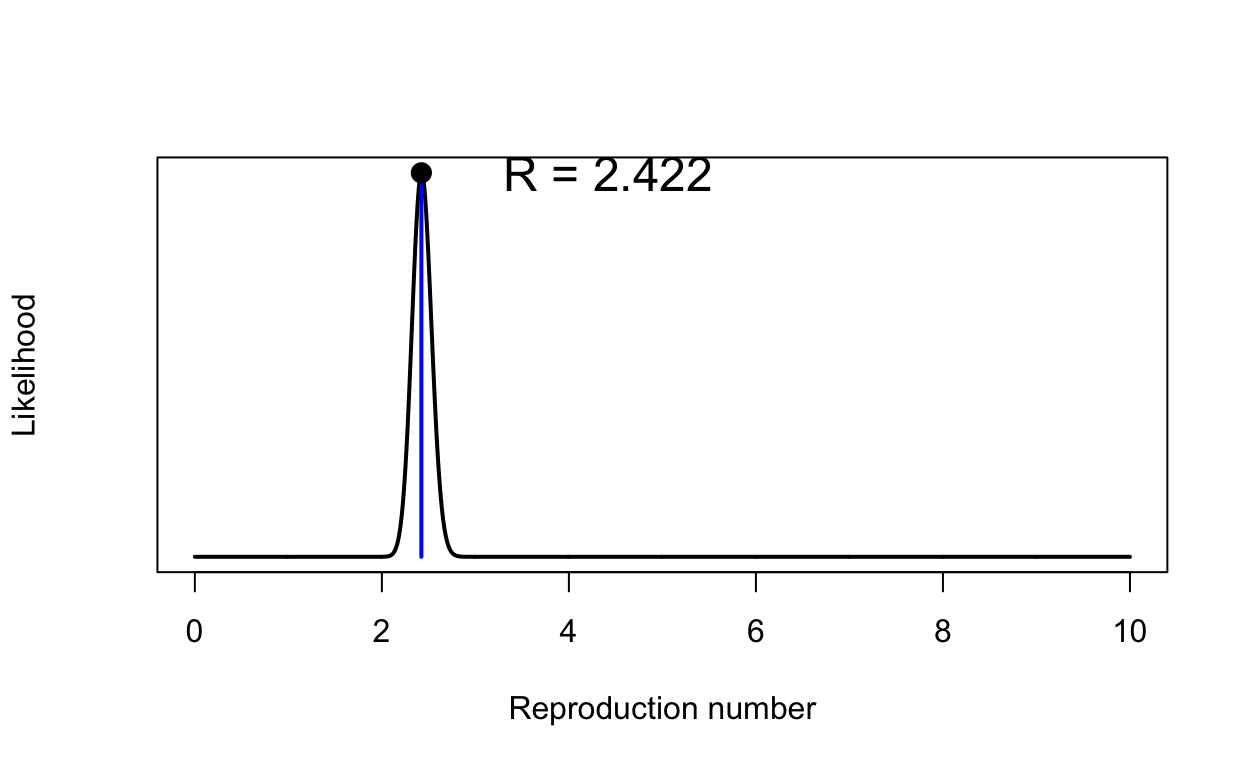
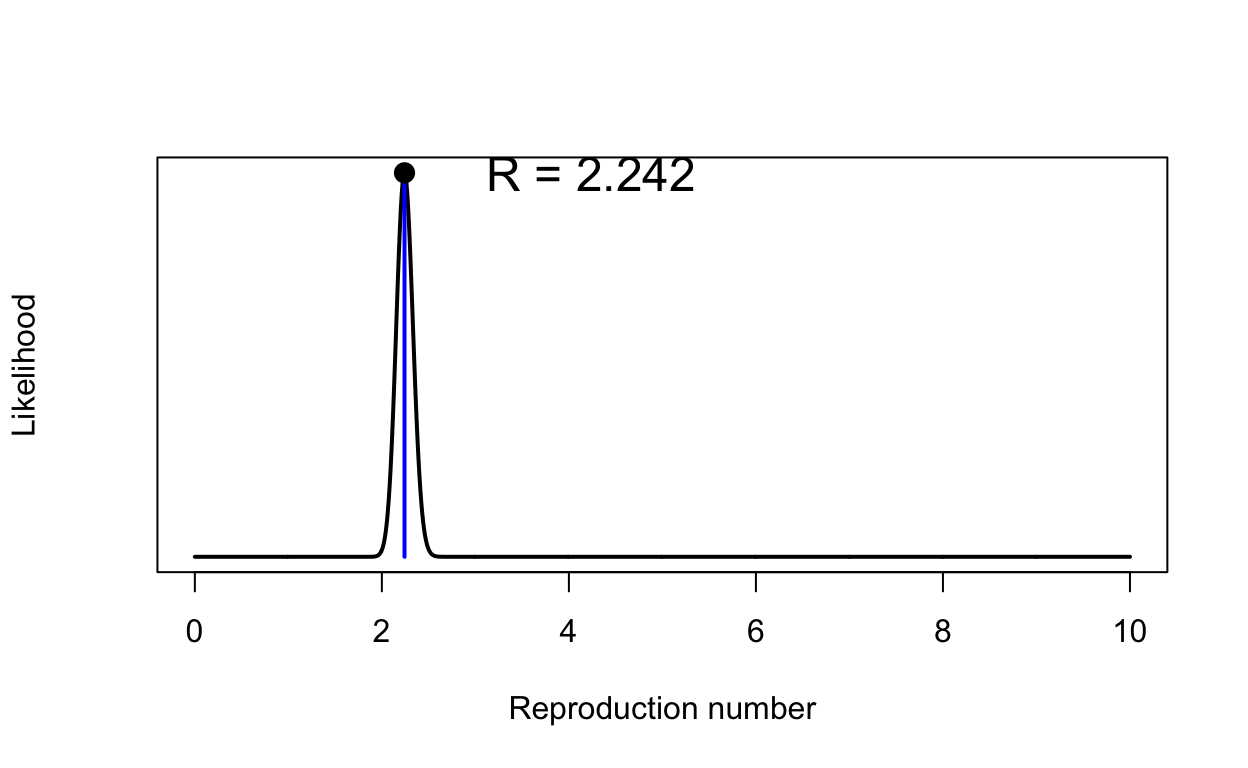
Fix minor error in di.rate in simulation part 1 post

Changed region(s): [[0.2812, 0.1875, 0.375, 0.75], [0.375, 0.1875, 0.5625, 0.25]]

diff --git a/docs/posts/2020-03-10-modelling-the-effects-of-public-health-interventions-on-covid-19-transmission-part-1/index.html b/docs/posts/2020-03-10-modelling-the-effects-of-public-health-interventions-on-covid-19-transmission-part-1/index.html
@@ -1417,7 +1417,7 @@ init &lt;- init.icm(s.num = 997, i.num = 3, r.num = 0)</code></pre>
 <div class="layout-chunk" data-layout="l-body">
 <pre class="r"><code>
 param &lt;- param.icm(inf.prob = 0.05, act.rate = 10, rec.rate = 1/20, 
-    a.rate = (10.5/365)/1000, ds.rate = (7/365)/1000, di.rate = (3.5/365)/1000, 
+    a.rate = (10.5/365)/1000, ds.rate = (7/365)/1000, di.rate = (14/365)/1000, 
     dr.rate = (7/365)/1000)</code></pre>
 </div>
 <p>OK, we can now run the simulation and print a description of the model results object.</p>
@@ -1445,7 +1445,7 @@ act.rate = 10
 rec.rate = 0.05
 a.rate = 2.876712e-05
 ds.rate = 1.917808e-05
-di.rate = 9.589041e-06
+di.rate = 3.835616e-05
 dr.rate = 1.917808e-05
 
 Model Output
@@ -1469,7 +1469,7 @@ plot(sim, y = &quot;si.flow&quot;, mean.col = &quot;red&quot;, qnts.col = &quot;
 <div class="layout-chunk" data-layout="l-body">
 <p><img src="modelling-the-effects-of-public-health-interventions-on-covid-19-transmission-part-1_files/figure-html5/unnamed-chunk-7-1.png" width="624" /></p>
 </div>
-<p>A MLE estimate of <span class="math inline">\(R_{0}\)</span> of 2.4 is consistent with current WHO estimates of the COVID-19 basic reproduction number, so our initial set of parameters are consistent with reality. On that basis, and despite the simplifications inherent in our model, we can start to use it to explore the effects of various public health interventions.</p>
+<p>A MLE estimate of <span class="math inline">\(R_{0}\)</span> of 2.2 is consistent with current WHO estimates of the COVID-19 basic reproduction number, so our initial set of parameters are consistent with reality. On that basis, and despite the simplifications inherent in our model, we can start to use it to explore the effects of various public health interventions.</p>
 <h2 id="exploring-public-health-interventions-using-our-icm-sir-model">Exploring public health interventions using our ICM SIR model</h2>
 <h3 id="avoiding-opportunities-for-exposure-through-social-distancing">Avoiding opportunities for exposure through <em>social distancing</em></h3>
 <p>One of key public health measures is <em>social distancing</em>. As <a href="https://en.wikipedia.org/wiki/Social_distancing">wikipedia says</a>:</p>
@@ -1496,7 +1496,7 @@ run_sir_sim &lt;- function(inf_prob, act_rate, pop_size = 1000,
     # set up simulation parameters
     param &lt;- param.icm(inf.prob = inf_prob, act.rate = act_rate, 
         rec.rate = 1/20, a.rate = (10.5/365)/1000, ds.rate = (7/365)/1000, 
-        di.rate = (3.5/365)/1000, dr.rate = (7/365)/1000)
+        di.rate = (14/365)/1000, dr.rate = (7/365)/1000)
     init &lt;- init.icm(s.num = pop_size - i_num, i.num = i_num, 
         r.num = 0)
     control &lt;- control.icm(type = &quot;SIR&quot;, nsteps = n_steps, nsims = n_sims)
